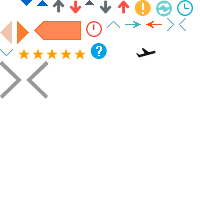
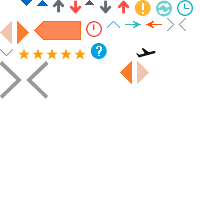
modified b2g_flight

Changed region(s): [[0.6, 0.3, 0.75, 0.42]]

diff --git a/static/css/b2g_flight.css b/static/css/b2g_flight.css
@@ -12,7 +12,9 @@ label input[type="radio"],label input[type="checkbox"]{ border:0; vertical-align
 .date li a:hover{ text-decoration:none; background:#fff7f4; color:#404040;}
 .date li em{ color:#f94037; font-weight:bold; font-size:14px;}
 .date li i{ width:12px; height:23px; display:inline-block; background:url(../images/b2g/smallImg.png) no-repeat 0 -21px; margin:10px 0 0;}
+.date .highlightI{ background-position:-120px -61px;}
 .date li span{ width:12px; height:23px; display:inline-block; background:url(../images/b2g/smallImg.png) no-repeat -17px -21px;}
+.date .highlightSpan{ background-position:-137px -61px;}
 .date .last_li,.date li:first-child{ background:#fdf8f5;}
 .date li b{ font-weight:500; margin-left:3px;}
 .date .current{ border-top:1px solid #f1634c; border-left:1px solid #f1634c; border-right:1px solid #f1634c; border-bottom:2px solid #fff; margin:-1px 0 -3px -1px; background:#fff;}

diff --git a/企业集团B2G/国内机票/国内单程搜索列表.html b/企业集团B2G/国内机票/国内单程搜索列表.html
@@ -143,7 +143,7 @@
     
         <ul class="date clearfix">
             <li>
-               <a href="#" style="width:35px; padding:12px 0;"> <i></i> </a>
+               <a href="#" style="width:35px; min-height:42px;"> <i class="highlightI"></i> </a>
             </li>
             <li>
                 <a href="#">
@@ -189,7 +189,7 @@
             </li>
             <li style="border:0;" class="last_li">
                 <a href="#" style=" width:36px; padding:20px 0;">
-                     <span>&nbsp;</span>
+                     <span class="highlightSpan">&nbsp;</span>
                 </a>
             </li>
         </ul>

diff --git a/企业集团B2G/国内机票/国内往返去程搜索列表.html b/企业集团B2G/国内机票/国内往返去程搜索列表.html
@@ -143,7 +143,7 @@
     
         <ul class="date clearfix">
             <li>
-               <a href="#" style="width:35px; padding:12px 0;"> <i></i> </a>
+               <a href="#" style="width:35px; min-height:42px;"> <i class="highlightI"></i> </a>
             </li>
             <li>
                 <a href="#">
@@ -189,7 +189,7 @@
             </li>
             <li style="border:0;" class="last_li">
                 <a href="#" style=" width:36px; padding:20px 0;">
-                     <span>&nbsp;</span>
+                     <span class="highlightSpan">&nbsp;</span>
                 </a>
             </li>
         </ul>

diff --git a/企业集团B2G/国内机票/国内往返返程搜索列表.html b/企业集团B2G/国内机票/国内往返返程搜索列表.html
@@ -184,7 +184,7 @@
     
         <ul class="date clearfix">
             <li>
-               <a href="#" style="width:35px; padding:12px 0;"> <i></i> </a>
+               <a href="#" style="width:35px; min-height:42px;"> <i class="highlightI"></i> </a>
             </li>
             <li>
                 <a href="#">
@@ -230,7 +230,7 @@
             </li>
             <li style="border:0;" class="last_li">
                 <a href="#" style=" width:36px; padding:20px 0;">
-                     <span>&nbsp;</span>
+                     <span class="highlightSpan">&nbsp;</span>
                 </a>
             </li>
         </ul>

diff --git a/企业集团B2G/国际机票/国际单程搜索列表.html b/企业集团B2G/国际机票/国际单程搜索列表.html
@@ -134,7 +134,7 @@
     
         <ul class="date clearfix">
             <li>
-               <a href="#" style="width:35px; padding:12px 0;"> <i></i> </a>
+               <a href="#" style="width:35px; min-height:42px;"> <i class="highlightI"></i> </a>
             </li>
             <li>
                 <a href="#">
@@ -180,7 +180,7 @@
             </li>
             <li style="border:0;" class="last_li">
                 <a href="#" style=" width:36px; padding:20px 0;">
-                     <span>&nbsp;</span>
+                     <span class="highlightSpan">&nbsp;</span>
                 </a>
             </li>
         </ul>

diff --git a/企业集团B2G/国际机票/国际往返搜索列表.html b/企业集团B2G/国际机票/国际往返搜索列表.html
@@ -134,7 +134,7 @@
     
         <ul class="date clearfix">
             <li>
-               <a href="#" style="width:35px; padding:12px 0;"> <i></i> </a>
+               <a href="#" style="width:35px; min-height:42px;"> <i class="highlightI"></i> </a>
             </li>
             <li>
                 <a href="#">
@@ -180,7 +180,7 @@
             </li>
             <li style="border:0;" class="last_li">
                 <a href="#" style=" width:36px; padding:20px 0;">
-                     <span>&nbsp;</span>
+                     <span class="highlightSpan">&nbsp;</span>
                 </a>
             </li>
         </ul>
